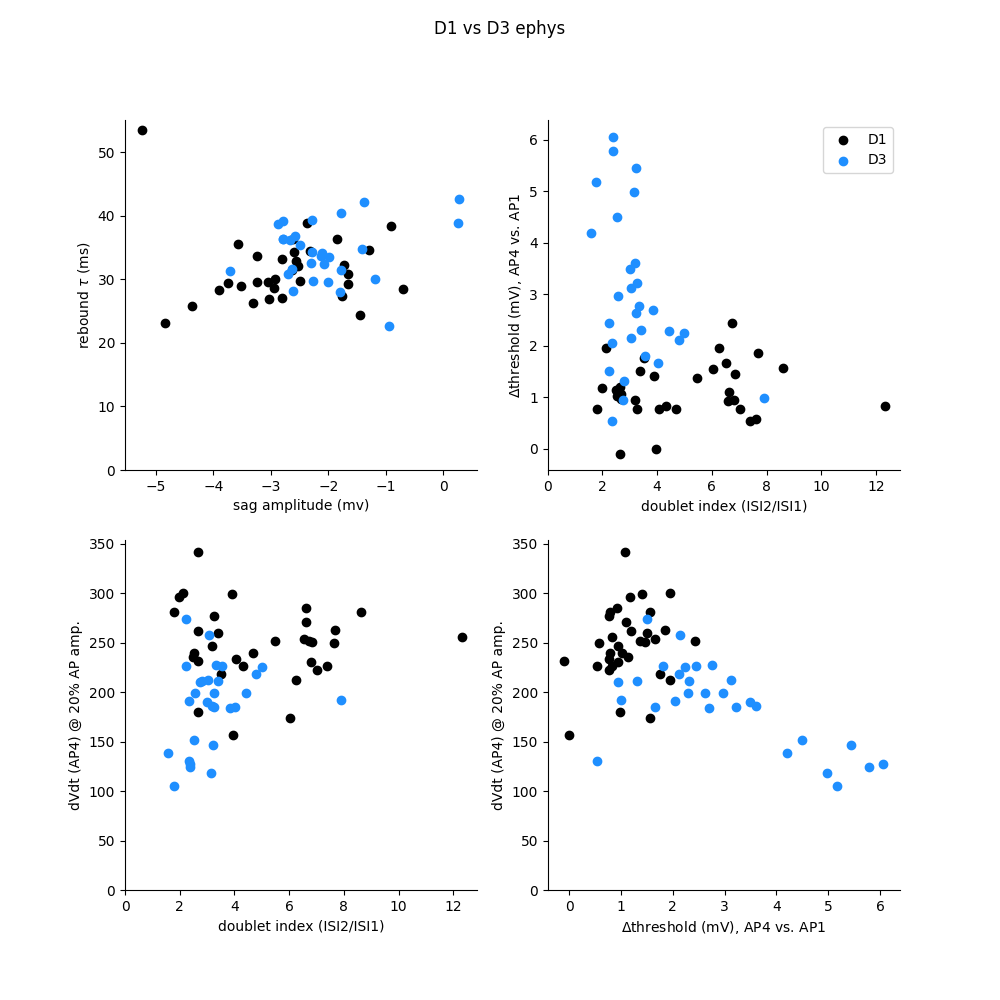
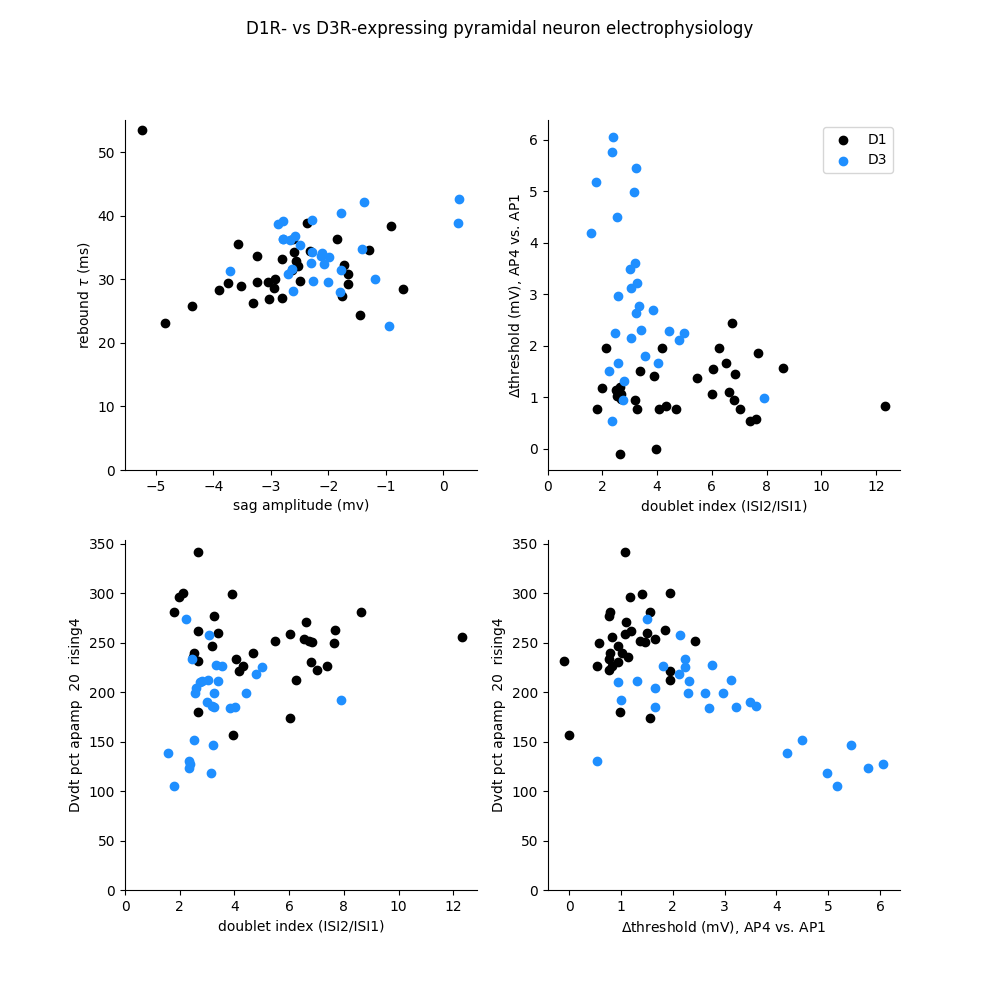
Added "analyzed sweeps" to save in Query. Added specification for response criteria order to speed performance.

diff --git a/neurospyke/query.py b/neurospyke/query.py
@@ -3,6 +3,7 @@ import hashlib
 import pickle
 import os
 from neurospyke.utils import query_cache_dir
+from neurospyke.sweep import Sweep
 
 class Query(object):
     def __init__(self, cells, response_criteria=None, response_properties=None, 
@@ -17,25 +18,28 @@ class Query(object):
         self.validate_parameters()   
 
     @classmethod
-    def create_or_load_from_cache(cls, cells, **kwargs):
+    def create_or_load_from_cache(cls, cells, overwrite=False,  **kwargs):
         """ 
         Make an instance of a query to have access to its instance methods.
         This will be the actual query object used if not in the cache.
         """
         tmp_query = cls(cells, **kwargs)
-        try:
-            # load from cache, if all goes well, return the cached version
-            query = cls.load_query(tmp_query.query_cache_filename())
-            query.cells = cells
-            for cell in query.cells:
-                cell.query = query
-            return query
-        except Exception:
-            # nothing was cached, use the temporary version instead
-            print(f"\nMaking new query")
+        path_exists =  os.path.isfile(tmp_query.query_cache_filename())
+        if overwrite or not path_exists:
+            #print(f"\nMaking new query")
             tmp_query.run()
             tmp_query.save_query()
             return tmp_query
+        else: 
+            print(f"\nLoading query from cache")
+            query = cls.load_query(tmp_query.query_cache_filename())
+            query.cells = cells
+
+            for cell in query.cells:
+                cell.query = query
+                cell.analyzed_sweep_ids = query.analyzed_sweeps_dict[cell.calc_cell_name()]
+
+            return query
 
     def validate_parameters(self):
         # TODO: ensure num_spikes criterion is set if spike properties in property names 
@@ -54,13 +58,15 @@ class Query(object):
         df_list = []
         for cell in self.cells: 
             cell.query = self
-            #print(f"Cell name is: {cell.calc_cell_name()}")
             cell_df = cell.run()
             df_list.append(cell_df)
             if len(cell_df.columns) > len(column_names):
                 column_names = cell_df.columns
         mean_df = pd.concat(df_list)
+
+        # added to query so that can be accessed with re-loaded query
         self.mean_df = mean_df[column_names]
+        self.analyzed_sweeps_dict = self.create_analyzed_sweeps_dict()
         return self.mean_df 
     
     def query_properties(self):
@@ -80,6 +86,16 @@ class Query(object):
         response_properties: {response_properties}
         """
         
+    def create_analyzed_sweeps_dict(self):
+        """
+        Stores in the query  all analyzed sweep_ids for each cell in the query, so can work with
+        these sweeps in a re-loaded query.
+        """
+        cell_names = [cell.calc_cell_name() for cell in self.cells]
+        analyzed_sweep_ids = [cell.analyzed_sweep_ids for cell in self.cells]
+        analyzed_sweeps_dict = dict(zip(cell_names, analyzed_sweep_ids))
+        return analyzed_sweeps_dict
+
     def query_id(self):
         q = hashlib.sha256()
         q.update(bytes(str(self.query_properties()), encoding="ASCII"))
@@ -93,18 +109,22 @@ class Query(object):
 
     def save_query(self):
         assert hasattr(self, 'mean_df'), "query must be run before it can be saved"
+
         filename = self.query_cache_filename()
+
         cells = self.cells
+        self.analyzed_sweeps_dict = self.create_analyzed_sweeps_dict()
         self.cells=None # remove cells to save filespace
+
         with open(filename, 'wb') as f:
             pickle.dump(self, f)
+
         self.cells = cells # add cells back 
    
     @classmethod
     def load_query(cls, query_cache_filepath):
         with open(query_cache_filepath, 'rb') as f:
             query = pickle.load(f)
-            print(f"\nLoading previously saved query")
             return query 
 
     def describe(self):

diff --git a/neurospyke/response.py b/neurospyke/response.py
@@ -4,7 +4,7 @@ import matplotlib.pyplot as plt
 from scipy.optimize import curve_fit
 
 class Response(object):
-    def __init__(self, curr_inj_params, sweep, response_properties=None, response_critiera=None):
+    def __init__(self, curr_inj_params, sweep):
         self.onset_pnt = int(curr_inj_params['onset_pnt'])
         self.offset_pnt = int(curr_inj_params['offset_pnt'])
         self.onset_time = curr_inj_params['onset_time']
@@ -12,6 +12,14 @@ class Response(object):
         self.amplitude = curr_inj_params['amplitude']
         self.sweep = sweep
         self._cache = {}
+        
+
+    def criteria_priority(self):
+        first_criteria = ['sweep_time']
+        response_criteria_names = set(self.sweep.cell.query.response_criteria.keys())
+        response_criteria_names = response_criteria_names.difference(first_criteria)
+        return first_criteria + sorted(response_criteria_names)
+
 
     def data(self):
         return self.sweep.sweep_df['data']
@@ -54,10 +62,16 @@ class Response(object):
             return np.isclose(value, condition)
 
     def meets_criteria(self):
-        criteria = self.sweep.cell.query.response_criteria
+        criteria_dict = self.sweep.cell.query.response_criteria
+        criteria_priority = self.criteria_priority()
+
+        criteria_list = []
+        for criteria in criteria_priority:
+            if criteria in criteria_dict.keys():
+                criteria_list.append((criteria, criteria_dict[criteria]))
 
         return all(self.meets_criterion(criterion)
-                for criterion in criteria.items())
+                for criterion in criteria_list)
 
     def calc_properties(self, property_names):
         property_dict = {}
@@ -135,7 +149,7 @@ class Response(object):
         else:
             # if there are spikes outside of current injection, don't analyze
             return []
-
+     
     def calc_num_spikes(self):
         spike_points = self.calc_or_read_from_cache('spike_points')
         return len(spike_points)
@@ -236,13 +250,13 @@ class Response(object):
         threshold = self.calc_or_read_from_cache('threshold_vals')
         return np.array(AP_max - threshold)
 
-    def calc_val_at_percent_APamp(self, percent):
+    def calc_val_pct_APamp(self, percent):
         AP_amplitudes = self.calc_or_read_from_cache('AP_amplitudes')
         thresh_vals = self.calc_or_read_from_cache('threshold_vals') 
         amplitude_at_percent = thresh_vals + AP_amplitudes * percent/100
         return amplitude_at_percent
     
-    def calc_dVdt_at_percent_APamp(self, percent,  direction):
+    def calc_dVdt_pct_APamp(self, percent,  direction):
         """
         This method calculates dVdt for each AP in the response, at a given
         percent of AP amplitude.
@@ -253,7 +267,7 @@ class Response(object):
         AP_max_idx = self.calc_or_read_from_cache('APmax_idxs')
         AHP_idx = self.calc_or_read_from_cache('AHP_idxs') 
         
-        amplitudes_at_percent = self.calc_val_at_percent_APamp(percent) 
+        amplitudes_at_percent = self.calc_val_pct_APamp(percent) 
         dVdt_vals = []
 
         for i in range(num_spikes):
@@ -346,7 +360,6 @@ class Response(object):
         Calculates sag amplitude based on an exponential fit from peak sag to sag offset. 
         """
         assert self.calc_or_read_from_cache('sag_onset_time') < 80, "Fitting to no sag"
-
         def exponential(x, a, b):
             return a * np.exp(b*x) 
 

diff --git a/docs/usage_example.py b/docs/usage_example.py
@@ -1,4 +1,4 @@
-from neurospyke.plot_df_utils import D1_D3_scatter_plot
+from neurospyke.plot_df_utils import D1_D3_scatter_subplots
 from neurospyke.query import Query
 from neurospyke.utils import concat_dfs_by_index 
 from neurospyke.utils import load_cells 
@@ -8,27 +8,36 @@ from tabulate import tabulate
 cell_file_pattern = 'docs/example_cells/*.mat' 
 output_dir = 'docs/output/'
 
-
 """ Load example cells and run queries """
 example_cells = load_cells(cell_file_pattern)
 
 # Query 1 
-response_criteria = {'curr_duration':.3, 'num_spikes': 5}
-response_properties = ['doublet_index', 'delta_thresh', 'num_spikes', 'dVdt_at_percent_APamp__20__rising']
-query1 = Query(example_cells, response_criteria=response_criteria, 
-        response_properties=response_properties)
-query1.run()
-df1 = query1.mean_df[['doublet_index', 'num_spikes', 'delta_thresh4', 'dVdt_at_percent_APamp__20__rising4']]
+response_criteria = {'sweep_time': '<150', 'curr_duration':.3, 'num_spikes': 5}
+response_properties = [
+    'num_spikes', 
+    'doublet_index', 
+    'delta_thresh', 
+    'dVdt_pct_APamp__20__rising'
+    ]
+
+query1 = Query.create_or_load_from_cache(
+        example_cells, 
+        response_criteria=response_criteria, 
+        response_properties=response_properties,
+        )
+df1 = query1.mean_df
 
 # Plot example 5 AP sweep
-query1.cells[0].plot_sweeps(filepath=output_dir + 'Example 5 AP sweeps')
+query1.cells[0].plot_sweeps(filepath=output_dir + '5AP_example.png')
 
 # Query 2
 response_criteria = {'curr_duration': .12, 'curr_amplitude': -400}
-calculated_cell_properties = ['reb_delta_t'] 
-query2 = Query(example_cells, response_criteria=response_criteria, 
-        cell_properties=calculated_cell_properties)
-query2.run()
+calculated_cell_properties = ['reb_delta_t', 'sag_fit_amplitude'] 
+query2 = Query.create_or_load_from_cache(
+        example_cells, 
+        response_criteria=response_criteria, 
+        cell_properties=calculated_cell_properties,
+        )
 df2 = query2.mean_df
 
 # Plot example reb_delta_t sweep  
@@ -37,6 +46,7 @@ query2.cells[0].plot_reb_delta_t(output_dir + 'example_reb_delta_t.png')
 
 
 """ Combine resulting dataframes """
+
 # Combined resulting dataframes for both queries
 combined_df = concat_dfs_by_index(df1, df2)
 example_cells_df = reorder_df(combined_df, ['genetic_marker', 'ca_buffer', 'num_spikes'])
@@ -50,13 +60,10 @@ with open(output_dir + 'example_cells_df.txt', 'w') as outputfile:
 
 
 """ Plot data from example cells """
-D1_D3_scatter_plot(example_cells_df, 'doublet_index', 'reb_delta_t', output_dir = output_dir)
-D1_D3_scatter_plot(example_cells_df, 'doublet_index', 'delta_thresh4', output_dir = output_dir)
-
-#comparisons = [
-#        ('sag_fit_amplitude', 'reb_delta_t'), 
-#        ('doublet_index', 'delta_thresh4'),
-#        ('doublet_index', 'dVdt_at_percent_APamp__20__rising4'),
-#        ('delta_thresh4', 'dVdt_at_percent_APamp__20__rising4'), 
-#        ]
-#D1_D3_scatter_subplots(example_cells_df, comparisons, output_path=output_dir + 'D1 vs D3 ephys.png')
+comparisons = [
+        ('sag_fit_amplitude', 'reb_delta_t'), 
+        ('doublet_index', 'delta_thresh4'),
+        ('doublet_index', 'dVdt_pct_APamp__20__rising4'),
+        ('delta_thresh4', 'dVdt_pct_APamp__20__rising4'), 
+        ]
+D1_D3_scatter_subplots(example_cells_df, comparisons, output_path=output_dir + 'D1 vs D3 ephys.png')

diff --git a/tests/test_response.py b/tests/test_response.py
@@ -6,7 +6,7 @@ import pandas as pd
 import numpy as np
 
 response_criteria = {'curr_duration': .3, 'num_spikes': 5, 'sweep_time': '<150'}
-response_properties = ['dVdt_at_percent_APamp__20__rising']
+response_properties = ['dVdt_pct_APamp__20__rising']
 data_dir_path = "tests/data/initial_examples/*.mat"
 cells = load_cells(data_dir_path)
 query1 = Query(cells, response_criteria=response_criteria, 
@@ -28,16 +28,22 @@ response_obj1 = Response(ex_2inj_sweep_obj.current_inj_waveforms()[0], ex_2inj_s
 response_obj_5AP = Response(ex_5AP_sweep_obj.current_inj_waveforms()[0], ex_5AP_sweep_obj)
 #ex_5AP_sweep_obj.plot(image_save_filepath + '5APs')
 
-def test_calc_val_at_percent_APamplitude():
-    calc_vals = response_obj_5AP.calc_val_at_percent_APamp(percent=20)
+def test_criteria_priority():
+    criteria = response_obj_5AP.criteria_priority()
+    assert criteria[0] == 'sweep_time'
+
+
+
+def test_calc_val_pct_APamplitude():
+    calc_vals = response_obj_5AP.calc_val_pct_APamp(percent=20)
     known_vals = np.array([-25.1947, -24.1427, -24.5680, -24.9613, -24.7053])
     assert np.allclose(calc_vals, known_vals)
 
-def test_calc_dVdt_rising_at_percent_APamplitude():
-    calc_vals = response_obj_5AP.calc_dVdt_at_percent_APamp(percent=20, direction='rising')
+def test_calc_dVdt_rising_pct_APamplitude():
+    calc_vals = response_obj_5AP.calc_dVdt_pct_APamp(percent=20, direction='rising')
     known_vals = [263.6667,265.6000,291.0000,228.5333,243.1333] 
     assert np.allclose(calc_vals, known_vals)
-    calc_vals = response_obj_5AP.calc_dVdt_at_percent_APamp(percent=20, direction='falling')
+    calc_vals = response_obj_5AP.calc_dVdt_pct_APamp(percent=20, direction='falling')
     known_vals = [-54.6667,-28.3333,-33.2000,-38.0667,-38.0667]
     assert np.allclose(calc_vals, known_vals)
 

diff --git a/neurospyke/cell.py b/neurospyke/cell.py
@@ -31,15 +31,20 @@ class Cell(object):
             print(f"key: {key} value: {value}")
 
     def valid_responses(self):
-        # save references to analyzed sweeps for later plot/analysis
-        self.analyzed_sweeps = []
-
+        self.analyzed_sweep_ids = []
         for sweep in self.sweeps():
             for response in sweep.responses():
                 if response.meets_criteria():
-                    self.analyzed_sweeps.append(sweep)
+                    # save references to analyzed sweeps for later plot/analysis
+                    self.analyzed_sweep_ids.append(sweep.sweep_index())
                     yield response
-  
+ 
+    def analyzed_sweeps(self):
+        analyzed_sweeps = []
+        for sweep_id in self.analyzed_sweep_ids:
+            analyzed_sweeps.append(Sweep(self.sweep_df(sweep_id), self))
+        return analyzed_sweeps
+
     def sweep_plot_setup(self, filepath=None):
         fig, (ax1, ax2) = plt.subplots(2, sharex=True)
 
@@ -57,7 +62,7 @@ class Cell(object):
 
     def plot_sweeps(self, sweeps=None, filepath=None):
 
-        sweeps = sweeps or self.analyzed_sweeps
+        sweeps = sweeps or self.analyzed_sweeps()
         
         for fig, (ax1, ax2) in self.sweep_plot_setup(filepath):
             x_max = 0

diff --git a/neurospyke/plot_df_utils.py b/neurospyke/plot_df_utils.py
@@ -15,7 +15,7 @@ def D1_D3_scatter_subplots(df, xy_pairs, output_path):
         if i == 1:
             plt.legend()
         i += 1
-    plt.suptitle('D1 vs D3 ephys')
+    plt.suptitle('D1R- vs D3R-expressing pyramidal neuron electrophysiology')
     plt.savefig(output_path)
 
 

diff --git a/neurospyke/sweep.py b/neurospyke/sweep.py
@@ -12,6 +12,7 @@ class Sweep(object):
         reponse_criteria, for all response_properties.
         """
         results_df = None
+
         for response in self.responses():
             if response.meets_criteria():
                 if results_df is None:
